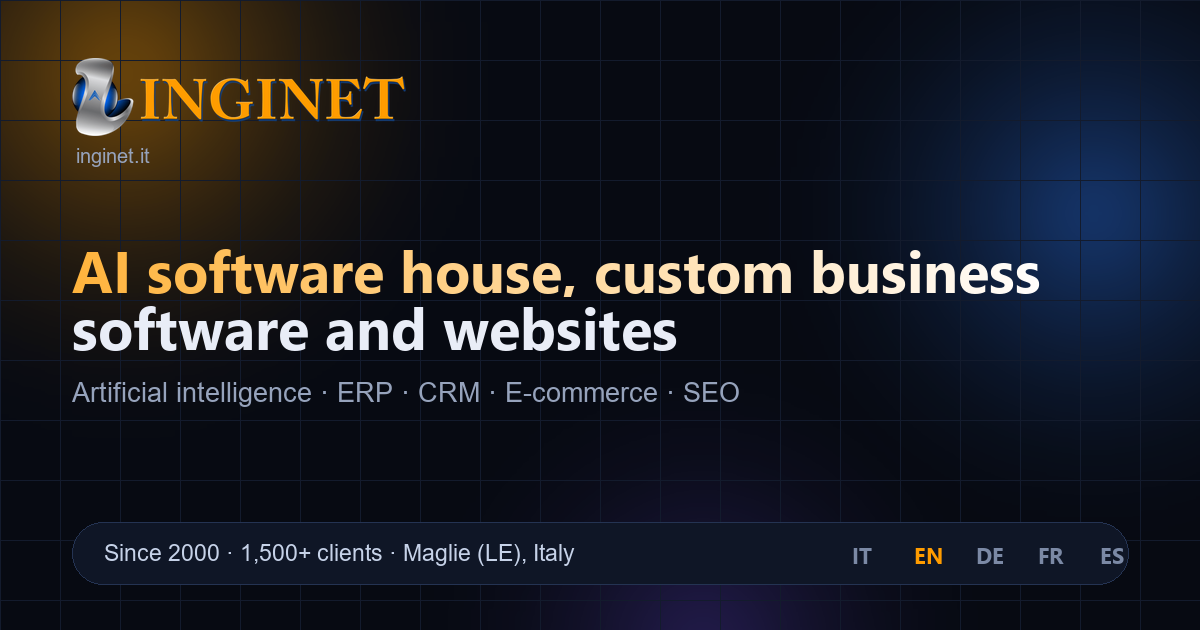
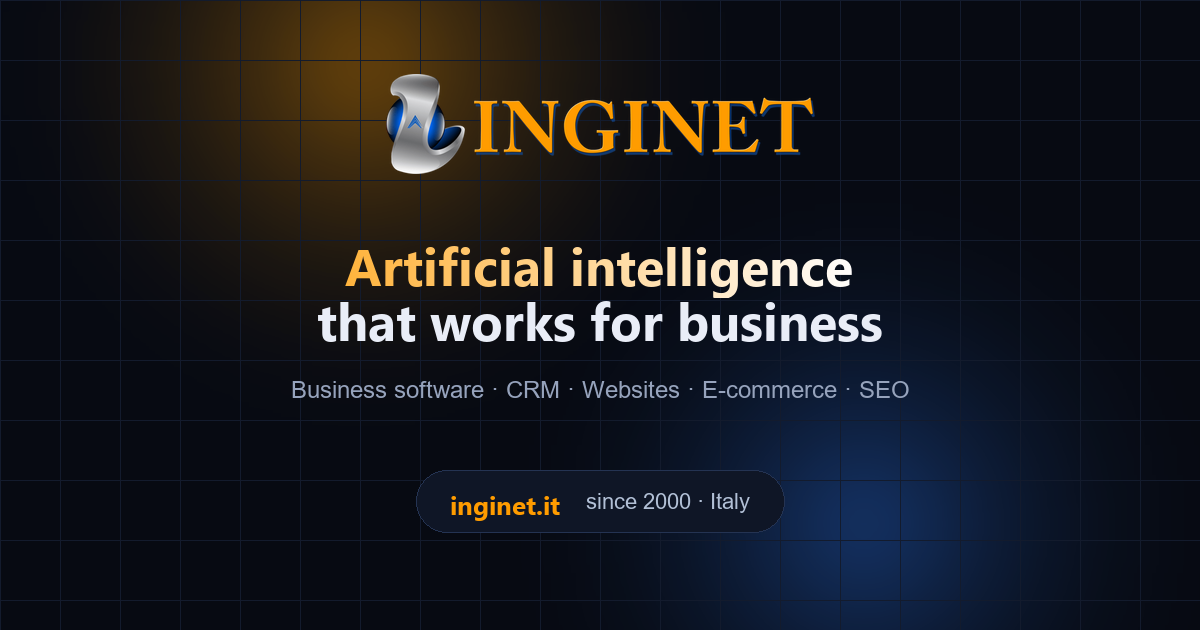
Immagini di condivisione ridisegnate: reggono il ritaglio quadrato
WhatsApp ritaglia l'anteprima al quadrato centrale: la vecchia immagine
aveva logo e titolo allineati a sinistra, quindi nel quadrato finiva una
fetta di testo senza senso e sembrava un errore.

Ora la composizione e tutta centrata dentro i 630 px centrali: marchio e
logotipo in alto, claim su due righe, elenco servizi, dominio in fondo.
Verificato in tutte e cinque le lingue che nulla sbordi dal quadrato.

diff --git a/tools/og.py b/tools/og.py
@@ -56,6 +56,7 @@ def orb(img, cx, cy, r, color, alpha=150):
 def hgrad_text(img, xy, text, fnt, c1, c2):
     """Testo con riempimento a gradiente orizzontale."""
     box = ImageDraw.Draw(img).textbbox(xy, text, font=fnt)
+    box = tuple(int(round(v)) for v in box)
     w = max(1, box[2] - box[0]); h = max(1, box[3] - box[1])
     mask = Image.new("L", (w + 8, h + 16), 0)
     ImageDraw.Draw(mask).text((0, 0), text, font=fnt, fill=255)
@@ -81,21 +82,16 @@ def logo_mark(d, x, y, s, color):
 
 
 TEXTS = {
-    "it": ("Software house AI, gestionali e siti su misura",
-           "Intelligenza artificiale · Gestionali · CRM · E-commerce · SEO",
-           "Dal 2000 · oltre 1.500 clienti · Maglie (LE), Italia"),
-    "en": ("AI software house, custom business software and websites",
-           "Artificial intelligence · ERP · CRM · E-commerce · SEO",
-           "Since 2000 · 1,500+ clients · Maglie (LE), Italy"),
-    "de": ("KI-Softwarehaus, individuelle Unternehmenssoftware und Websites",
-           "Künstliche Intelligenz · ERP · CRM · E-Commerce · SEO",
-           "Seit 2000 · über 1.500 Kunden · Maglie (LE), Italien"),
-    "fr": ("Éditeur de logiciels IA, gestion sur mesure et sites web",
-           "Intelligence artificielle · Gestion · CRM · E-commerce · SEO",
-           "Depuis 2000 · plus de 1 500 clients · Maglie (LE), Italie"),
-    "es": ("Software house de IA, software de gestión y webs a medida",
-           "Inteligencia artificial · Gestión · CRM · E-commerce · SEO",
-           "Desde 2000 · más de 1.500 clientes · Maglie (LE), Italia"),
+    "it": ("Intelligenza artificiale", "applicata alle imprese",
+           "Gestionali · CRM · Siti · E-commerce · SEO", "dal 2000 · Maglie (LE), Italia"),
+    "en": ("Artificial intelligence", "that works for business",
+           "Business software · CRM · Websites · E-commerce · SEO", "since 2000 · Italy"),
+    "de": ("Künstliche Intelligenz", "für Ihr Unternehmen",
+           "Branchensoftware · CRM · Websites · Shops · SEO", "seit 2000 · Italien"),
+    "fr": ("Intelligence artificielle", "au service des entreprises",
+           "Gestion · CRM · Sites · E-commerce · SEO", "depuis 2000 · Italie"),
+    "es": ("Inteligencia artificial", "aplicada a las empresas",
+           "Gestión · CRM · Webs · E-commerce · SEO", "desde 2000 · Italia"),
 }
 
 
@@ -115,45 +111,51 @@ def wrap(draw, text, fnt, maxw):
 
 
 def build_og(lang):
+    """1200x630. WhatsApp ritaglia l'anteprima al quadrato centrale, quindi
+    tutto cio che conta sta dentro i 630 px centrali (x da 285 a 915)."""
     W, H = 1200, 630
+    CX = W // 2
     img = Image.new("RGB", (W, H), BG)
-    orb(img, 120, 70, 380, ACC, 120)
-    orb(img, 1090, 210, 340, BLU, 110)
-    orb(img, 700, 640, 300, (120, 80, 255), 70)
+    orb(img, CX - 240, 60, 380, ACC, 110)
+    orb(img, CX + 260, 520, 360, BLU, 100)
 
     d = ImageDraw.Draw(img)
-    # griglia leggera
     for x in range(0, W, 60):
         d.line([(x, 0), (x, H)], fill=(19, 27, 45), width=1)
     for y in range(0, H, 60):
         d.line([(0, y), (W, y)], fill=(19, 27, 45), width=1)
 
-    # logo reale, in alto a sinistra
+    # marchio + logotipo, centrati in alto
     logo = Image.open(os.path.join(ICO, "inginet-logo.png")).convert("RGBA")
-    logo.thumbnail((420, 78), Image.LANCZOS)
-    img.paste(logo, (72, 58), logo)
-    d.text((76, 58 + logo.height + 8), "inginet.it", font=font(20, False), fill=TX2)
+    logo.thumbnail((430, 100), Image.LANCZOS)
+    img.paste(logo, (CX - logo.width // 2, 74), logo)
 
-    title, sub, foot = TEXTS[lang]
-    f_title = font(58)
-    lines = wrap(d, title, f_title, W - 150)
-    y = 215
-    for i, ln in enumerate(lines[:3]):
-        if i == 0:
-            hgrad_text(img, (72, y), ln, f_title, ACC2, (255, 255, 255))
-        else:
-            d.text((72, y), ln, font=f_title, fill=TX)
-        y += 72
+    riga1, riga2, servizi, piede = TEXTS[lang]
 
-    d.text((72, y + 18), sub, font=font(27, False), fill=TX2)
+    f1 = font(52)
+    w1 = d.textlength(riga1, font=f1)
+    hgrad_text(img, (int(CX - w1 / 2), 216), riga1, f1, ACC2, (255, 255, 255))
 
-    # barra inferiore
-    d.rounded_rectangle([72, H - 108, W - 72, H - 46], radius=31, fill=(15, 22, 38), outline=(36, 51, 82))
-    d.text((104, H - 90), foot, font=font(23, False), fill=(198, 210, 232))
-    for i, tag in enumerate(["IT", "EN", "DE", "FR", "ES"]):
-        bx = W - 100 - (4 - i) * 62
-        col = ACC if tag.lower() == lang else (123, 137, 165)
-        d.text((bx, H - 90), tag, font=font(22), fill=col)
+    f2 = font(52)
+    w2 = d.textlength(riga2, font=f2)
+    d.text((CX - w2 / 2, 284), riga2, font=f2, fill=TX)
+
+    f3 = font(24, False)
+    w3 = d.textlength(servizi, font=f3)
+    d.text((CX - w3 / 2, 376), servizi, font=f3, fill=TX2)
+
+    # riga inferiore centrata
+    f4 = font(26)
+    dom = "inginet.it"
+    wd = d.textlength(dom, font=f4)
+    f5 = font(22, False)
+    wp = d.textlength(piede, font=f5)
+    tot = wd + 26 + wp
+    x0 = CX - tot / 2
+    d.rounded_rectangle([x0 - 34, 470, x0 + tot + 34, 532], radius=31,
+                        fill=(15, 22, 38), outline=(36, 51, 82))
+    d.text((x0, 486), dom, font=f4, fill=ACC)
+    d.text((x0 + wd + 26, 489), piede, font=f5, fill=(178, 192, 214))
 
     path = os.path.join(OUT, "inginet-og-%s.png" % lang)
     img.save(path, "PNG", optimize=True)
